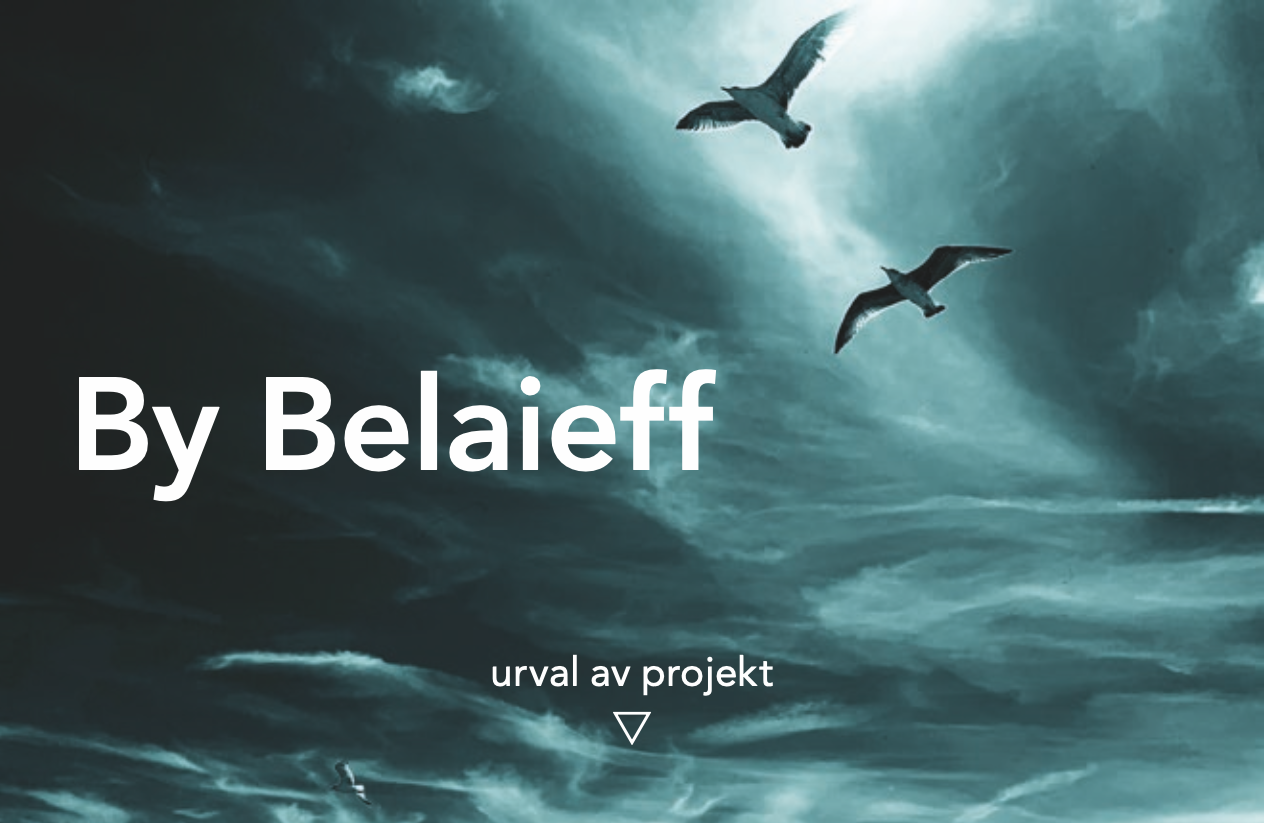
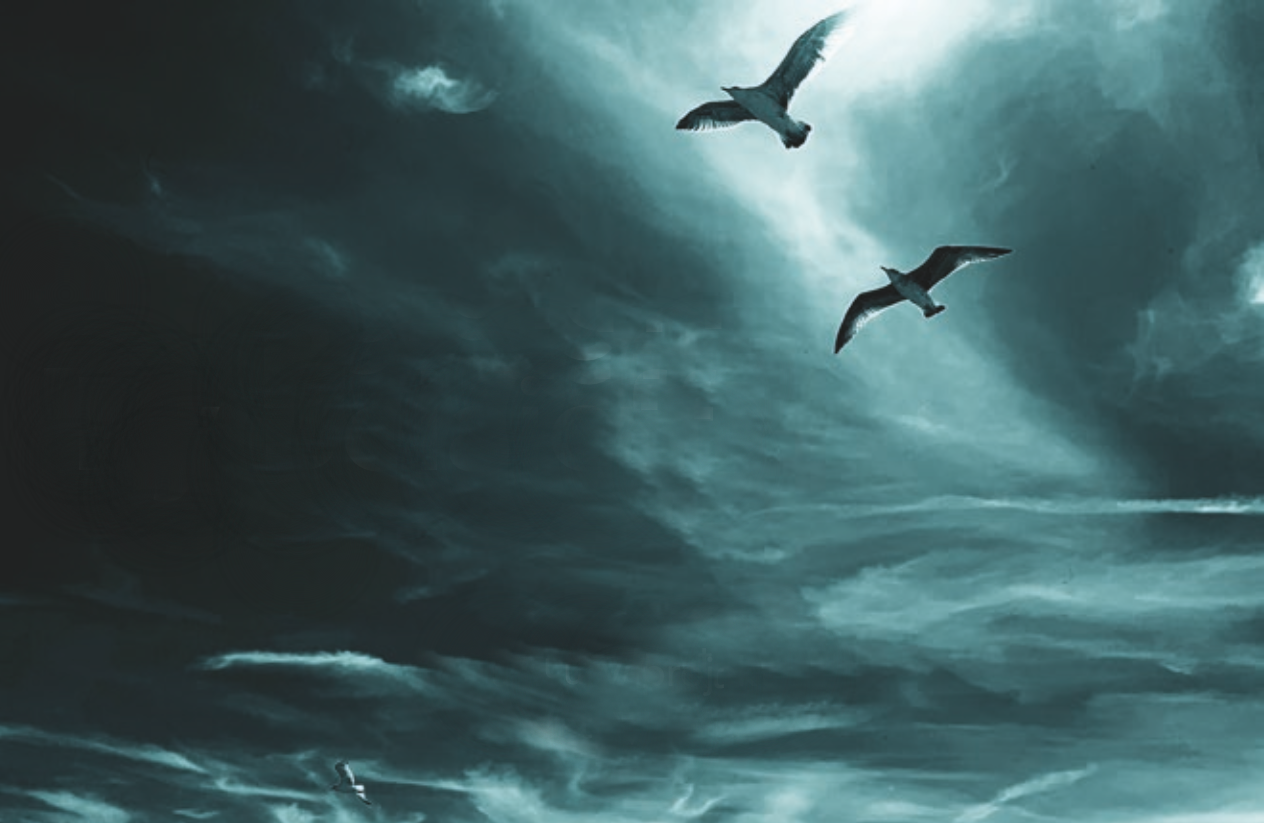
Added hero section container and adjusted blue bg img

Changed region(s): [[0.0615, 0.3944, 0.5844, 0.6371], [0.3383, 0.7585, 0.6151, 0.9405]]

diff --git a/src/components/hero.js b/src/components/hero.js
@@ -2,13 +2,19 @@ import React from 'react'
 import { useStaticQuery, graphql } from 'gatsby'
 import styled from 'styled-components'
 
-
 import BackgroundSlider from 'gatsby-image-background-slider'
+
+const HeroContainer = styled.section`
+  width: 100%;
+  height: 580px; 
+  color: white;
+`
 
 const HeroBackground = () => (
   <>
-    <BackgroundSlider
-      query={useStaticQuery(graphql`
+    <HeroContainer>
+      <BackgroundSlider
+        query={useStaticQuery(graphql`
         query {
           backgrounds: allFile (filter: {sourceInstanceName: {eq: "backgrounds"}}){
             nodes {
@@ -22,52 +28,54 @@ const HeroBackground = () => (
           }
         }
       `)}
-      initDelay={2} // delay before the first transition (if left at 0, the first image will be skipped initially)
-      transition={4} // transition duration between images
-      duration={8} // how long an image is shown
-      // specify images to include (and their order) according to `relativePath`
-      images={["mock_hero_blue.png", "mock_hero_green.png", "mock_hero_yellow.png"]}
+        initDelay={2} // delay before the first transition (if left at 0, the first image will be skipped initially)
+        transition={4} // transition duration between images
+        duration={8} // how long an image is shown
+        // specify images to include (and their order) according to `relativePath`
+        images={["mock_hero_blue.png", "mock_hero_green.png", "mock_hero_yellow.png"]}
 
-      // pass down standard element props
-      style={{
-        width: `100%`,
-        height: `100vh`,
-        display: `flex`,
-        alignItems: `center`,
-      }}
-    >
-      {/* Captions in sync with background images*/}
-      <div style={{
-        width: `100%`,
-        height: `100vh`,
-        display: `flex`,
-        flexDirection: `column`,
-        justifyContent: `center`,
-        alignItems: `center`,
-
-      }}><h1 style={{
-        marginLeft: `62px`,
-        fontSize: `102px`,
-        letterSpacing: `2px`,
-        alignSelf: `flex-start`,
-      }}>By Belaieff</h1>
+        // pass down standard element props
+        style={{
+          width: `100%`,
+          height: `100vh`,
+          display: `flex`,
+          alignItems: `center`,
+        }}
+      >
+        {/* Captions in sync with background images*/}
         <div style={{
+          width: `100%`,
+          height: `100vh`,
           display: `flex`,
           flexDirection: `column`,
+          justifyContent: `center`,
           alignItems: `center`,
-          /* alignSelf: `center`, */
-        }}>
-          <h2 style={{
-            letterSpacing: `1px`,
-          }}>urval av projekt</h2>
-          <span style={{
-            fontSize: `32px`,
-          }}>▽</span>
+
+        }}><h1 style={{
+          marginLeft: `62px`,
+          marginBottom: `62px`,
+          fontSize: `102px`,
+          letterSpacing: `2px`,
+          alignSelf: `flex-start`,
+        }}>By Belaieff</h1>
+          <div style={{
+            display: `flex`,
+            flexDirection: `column`,
+            alignItems: `center`,
+          }}>
+            <h2 style={{
+              letterSpacing: `1px`,
+              marginTop: `32px`,
+            }}>urval av projekt</h2>
+            <span style={{
+              fontSize: `32px`,
+            }}>▽</span>
+          </div>
         </div>
-      </div>
-      {/* <div >GREEN</div>
+        {/* <div >GREEN</div>
       <div >YELLOW</div> */}
-    </BackgroundSlider>
+      </BackgroundSlider>
+    </HeroContainer>
   </>
 )
 

diff --git a/src/components/footer.js b/src/components/footer.js
@@ -4,7 +4,7 @@ import styled from 'styled-components'
 
 const StyledFooter = styled.footer`
   margin: 0 auto;
-  background: #17525F;
+  background: #1F363D;
   color: white;
   width: 100%;
   height: 150px;

diff --git a/src/components/header.module.css b/src/components/header.module.css
@@ -1,4 +1,6 @@
 header {
+  width: 100%;
+  height: 100px;
   padding: 1rem 0 3rem;
   background: transparent;
 }
